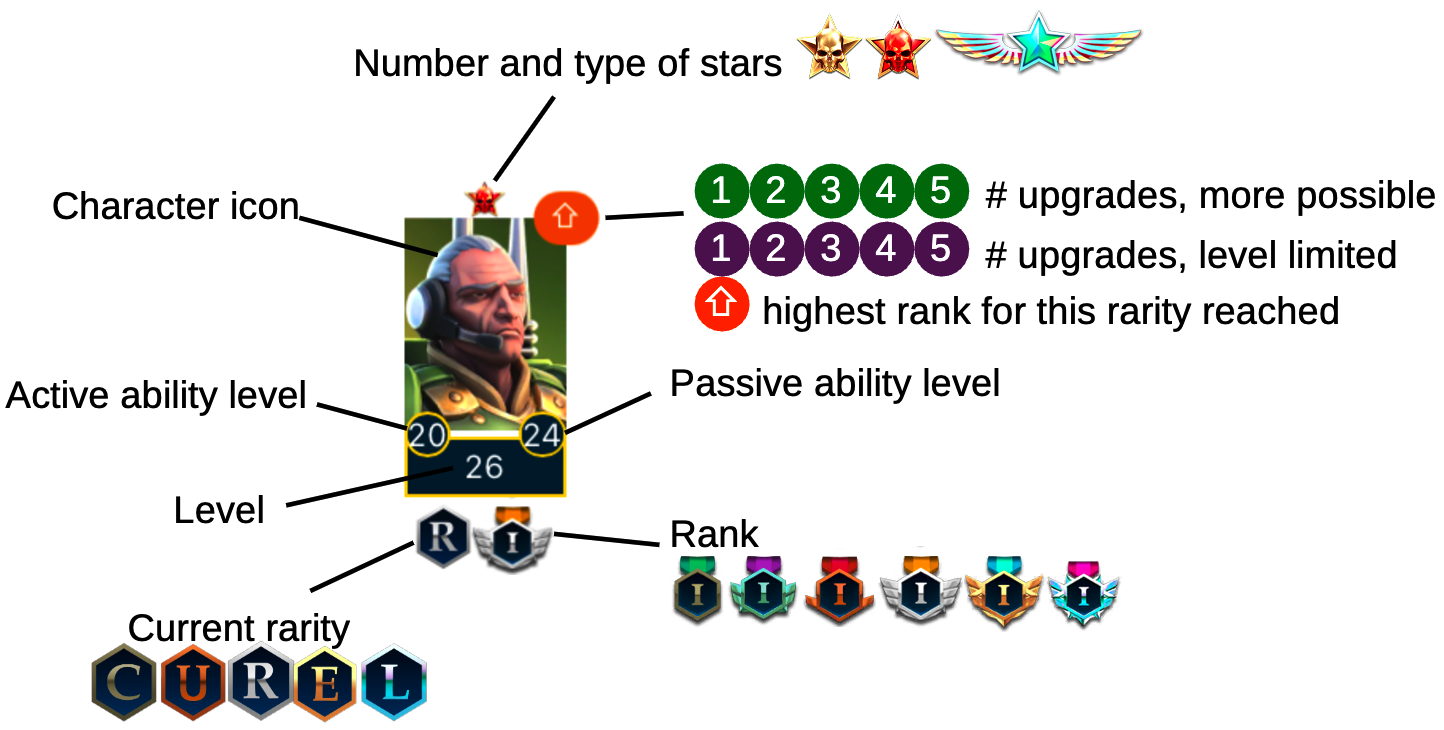
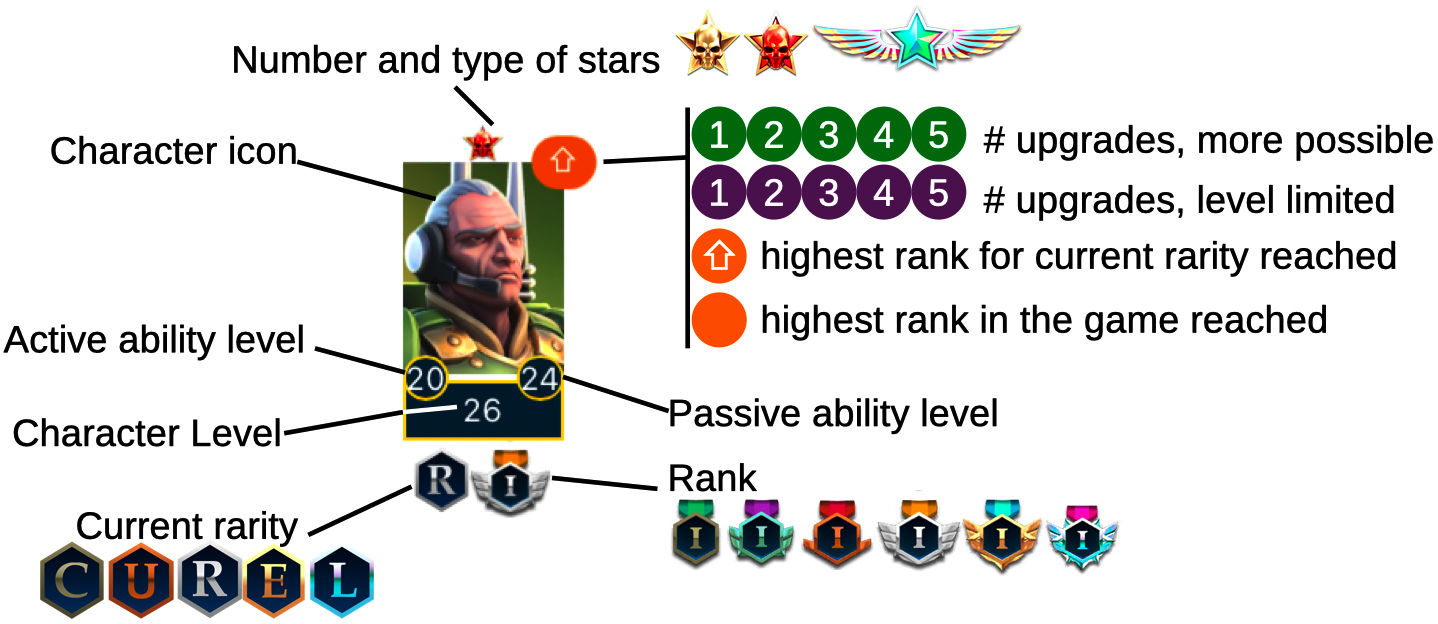
Added orange badge for maxed-out rank

Changed region(s): [[0.0, 0.1522, 1.0, 1.0], [0.153, 0.0304, 0.7955, 0.1827]]

diff --git a/src/v2/features/characters/components/character-tile.tsx b/src/v2/features/characters/components/character-tile.tsx
@@ -34,12 +34,17 @@ export const CharacterTile = ({
         [character.rarity, character.rank, character.level]
     );
 
-    const badgeContent = needToAscend
-        ? '⇧'
-        : needToLevel
-        ? character.upgrades.length || '⇧'
-        : character.upgrades.length;
-    const badgeColor = needToAscend ? 'warning' : needToLevel ? 'secondary' : 'success';
+    const maxRank = Rank.Diamond2;
+    const badgeContent =
+        character.rank === maxRank
+            ? ''
+            : needToAscend
+            ? '⇧'
+            : needToLevel
+            ? character.upgrades.length || '⇧'
+            : character.upgrades.length;
+    const badgeColor =
+        character.rank === maxRank ? 'warning' : needToAscend ? 'warning' : needToLevel ? 'secondary' : 'success';
 
     return (
         <div
